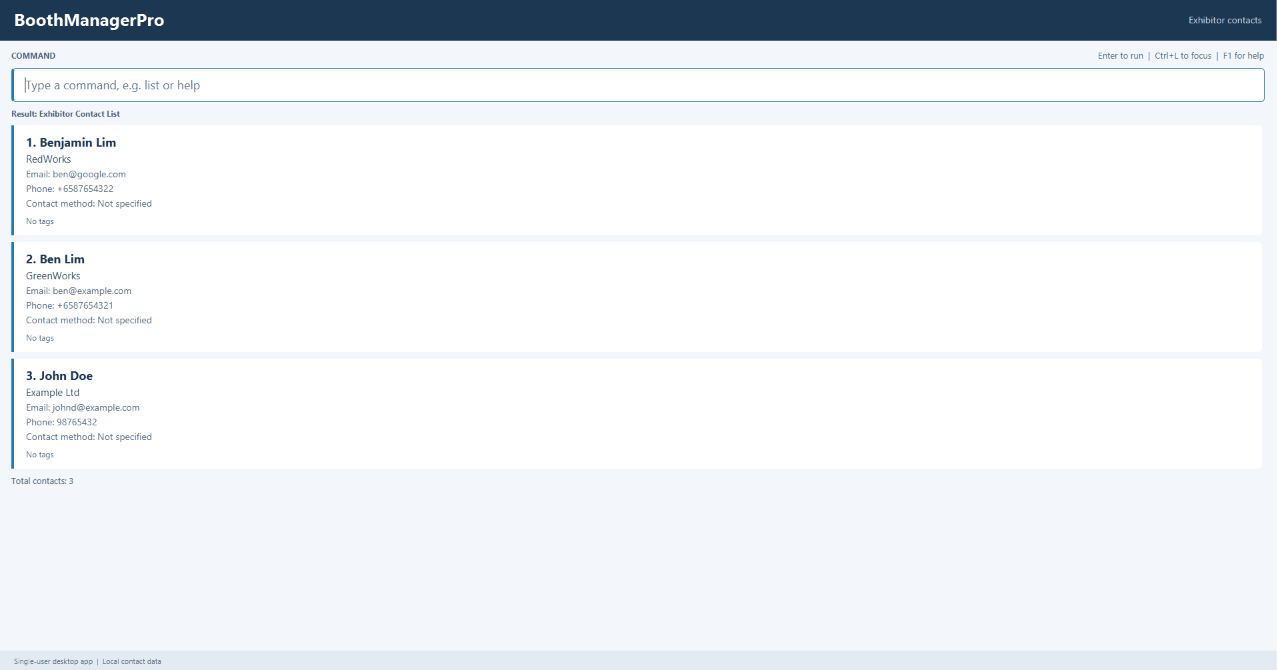
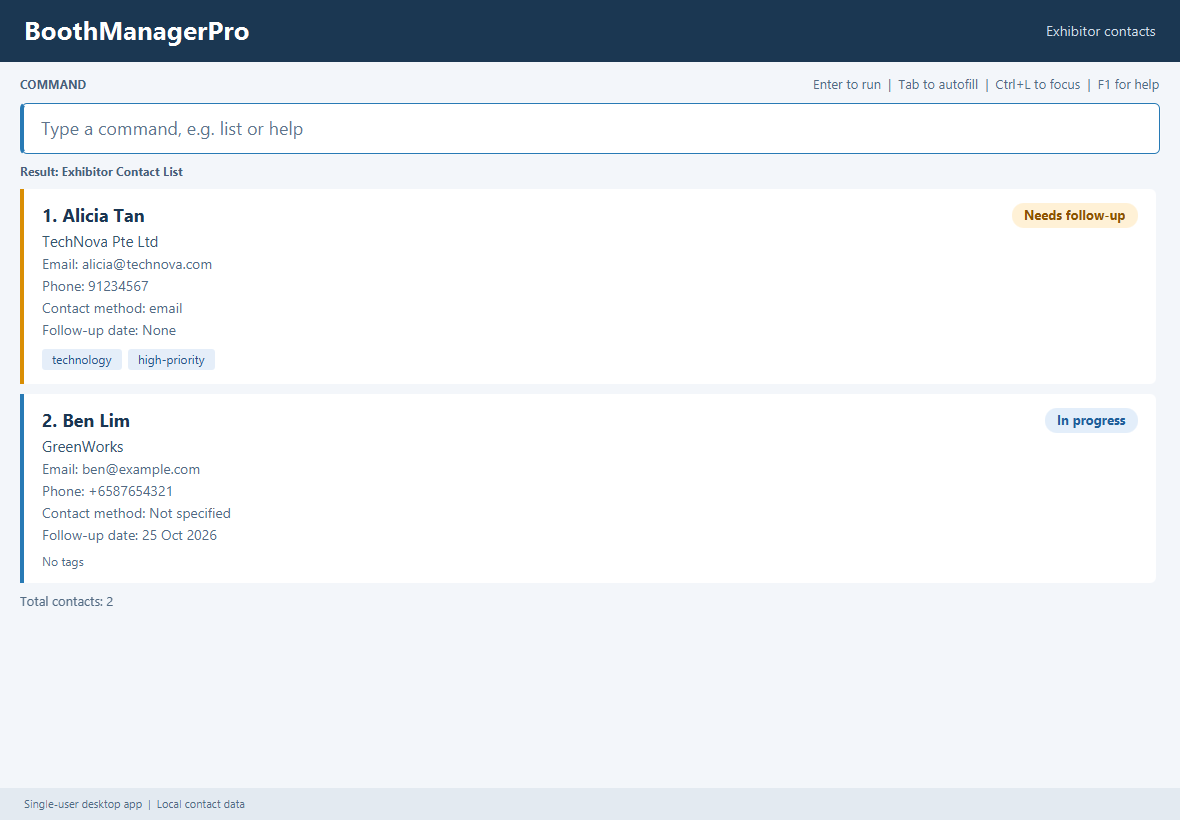
Update documentation, landing page, and project metadata

diff --git a/src/main/java/seedu/boothmanagerpro/MainApp.java b/src/main/java/seedu/boothmanagerpro/MainApp.java
@@ -32,7 +32,7 @@ import seedu.boothmanagerpro.ui.UiManager;
  */
 public class MainApp extends Application {
 
-    public static final String VERSION = "V0.5.1";
+    public static final String VERSION = "V1.5";
     public static final String MESSAGE_DATA_LOAD_FAILURE = "Contact data could not be loaded. "
             + "The original file will be backed up before any new data is saved.";
 
@@ -48,7 +48,7 @@ public class MainApp extends Application {
 
     @Override
     public void init() throws Exception {
-        logger.info("=============================[ Initializing AddressBook ]===========================");
+        logger.info("=============================[ Initializing BoothManagerPro ]===========================");
         super.init();
 
         JsonUserPrefsStorage userPrefsStorage = new JsonUserPrefsStorage(USER_PREFS_FILE_PATH);
@@ -78,13 +78,13 @@ public class MainApp extends Application {
             addressBookOptional = storage.readAddressBook();
             if (addressBookOptional.isEmpty()) {
                 logger.info("Creating a new data file " + storage.getAddressBookFilePath()
-                        + " populated with a sample AddressBook.");
+                        + " populated with sample exhibitor contacts.");
             }
             initialData = addressBookOptional.orElseGet(SampleDataUtil::getSampleAddressBook);
         } catch (DataLoadingException e) {
             startupWarning = MESSAGE_DATA_LOAD_FAILURE;
             logger.warning("Data file at " + storage.getAddressBookFilePath() + " could not be loaded."
-                    + " Will be starting with an empty AddressBook.");
+                    + " Will be starting with an empty contact list.");
             initialData = new AddressBook();
         }
 
@@ -126,13 +126,13 @@ public class MainApp extends Application {
 
     @Override
     public void start(Stage primaryStage) {
-        logger.info("Starting AddressBook " + MainApp.VERSION);
+        logger.info("Starting BoothManagerPro " + MainApp.VERSION);
         ui.start(primaryStage);
     }
 
     @Override
     public void stop() {
-        logger.info("============================ [ Stopping AddressBook ] =============================");
+        logger.info("============================ [ Stopping BoothManagerPro ] =============================");
         try {
             storage.saveUserPrefs(model.getUserPrefs());
         } catch (IOException e) {

diff --git a/docs/UserGuide.md b/docs/UserGuide.md
@@ -12,18 +12,28 @@ BoothManagerPro is a desktop contact manager for **convention organisers followi
 
 ## Quick start
 
-1. Ensure that JDK `25` is installed on your computer, as required by the [setup guide](SettingUp.md).
+1. Ensure that Java `25` is installed on your computer. You can check this by running `java -version` in your terminal, as described in the [setup guide](SettingUp.md).
 
 1. Download `boothmanagerpro.jar` from the [latest GitHub release](https://github.com/AY2627S1-CS2103T-W11-2/tp/releases/latest). You do not need to download the source code or build the app.
 
-1. Copy the file to the folder you want to use as the _home folder_ for BoothManagerPro.
+1. Copy the JAR file to an empty folder you want to use as the home directory for BoothManagerPro.
+   <div markdown="span" class="alert alert-warning">:exclamation: **Caution:**
+   Do not place BoothManagerPro in a write-protected directory (e.g. `Program Files` or system root), as the application creates and updates its local data file (`data/addressbook.json`) in the directory it is run from.
+   </div>
 
-1. Open a terminal, `cd` to the folder containing the JAR file, and run `java -jar boothmanagerpro.jar`.<br>
+1. Open a terminal, `cd` into the folder containing the JAR file, and launch the application with:
+   ```text
+   java -jar boothmanagerpro.jar
+   ```
+   <div markdown="span" class="alert alert-primary">:bulb: **Note:**
+   Double-clicking the JAR file may not work on certain operating systems or configurations (such as Linux desktop environments or macOS without console associations). Running the command from a terminal is the recommended method.
+   </div>
+
    Sample contacts are loaded on first launch, but only a ready prompt is shown.
    Type `list` to show the sample contacts, or `help` to see the available commands.<br>
    ![Command interface on startup](images/ug-startup.png)
 
-1. Type a command in the command box and press Enter to execute it. For example, type **`help`** and press Enter to print command usage instructions.<br>
+1. Type a command in the command box and press Enter to execute it. For example, type **`help`** (or press **F1**) and press Enter to print command usage instructions.<br>
    Some example commands you can try:
 
    * `list` : Lists all contacts. Add `o/name`, `o/company`, or `o/status` to sort them, e.g. `list o/status`.
@@ -441,13 +451,19 @@ To recover contacts, close BoothManagerPro first. Keep a separate copy of the re
 Furthermore, certain edits can cause BoothManagerPro to behave in unexpected ways (e.g., if a value entered is outside of the acceptable range). Therefore, edit the data file only if you are confident that you can update it correctly.
 </div>
 
-### Planned features
+### Planned features [Coming soon]
 
-Searching enquiry status, reminders, data archiving, CSV import/export, and undo remain planned. Exact follow-up-date search is available through `find f/YYYYMMDD`.
+Searching enquiry status, reminders, data archiving, CSV import/export, and undo remain planned for future iterations. Exact follow-up-date search is available through `find f/YYYYMMDD`.
 
 --------------------------------------------------------------------------------------------------------------------
 
 ## FAQ
+
+**Q**: Why does double-clicking `boothmanagerpro.jar` not open the application?<br>
+**A**: Certain operating systems (or configurations without Java desktop associations) do not execute JAR files on double-click. Open a terminal, navigate to the folder containing the JAR, and run `java -jar boothmanagerpro.jar`.
+
+**Q**: Where does BoothManagerPro store contact data?<br>
+**A**: BoothManagerPro stores contacts in `data/addressbook.json` in the folder from which you run the application. Ensure that folder is not write-protected.
 
 **Q**: How do I transfer my data to another computer?<br>
 **A**: Close BoothManagerPro on both computers. Copy `data/addressbook.json` from the old launch folder into the new launch folder's `data` directory, backing up any existing file first. Start the app from the new folder and run `list` to check your contacts.

diff --git a/docs/index.md b/docs/index.md
@@ -3,14 +3,14 @@ layout: page
 title: BoothManagerPro
 ---
 
-[![CI Status](https://github.com/AY2627S1-CS2103T-W11-2/tp/actions/workflows/gradle.yml/badge.svg)](https://github.com/AY2627S1-CS2103T-W11-2/tp/actions/workflows/gradle.yml)
+[![CI Status](https://github.com/AY2627S1-CS2103T-W11-2/tp/actions/workflows/gradle.yml/badge.svg?branch=master)](https://github.com/AY2627S1-CS2103T-W11-2/tp/actions/workflows/gradle.yml)
 [![codecov](https://codecov.io/github/AY2627S1-CS2103T-W11-2/tp/graph/badge.svg?token=EXE9YQFB7G)](https://codecov.io/github/AY2627S1-CS2103T-W11-2/tp)
 
-![Current startup screen](images/Ui%20-%20start%20state.png)
+![BoothManagerPro contact list view](images/Ui.png)
 
-**BoothManagerPro helps convention organisers manage exhibitor contacts through typed commands.** Add contacts with company, email, phone, optional contact method, and tags, with validation and duplicate detection. See the [add command reference](UserGuide.html#adding-an-exhibitor-contact-add).
+**BoothManagerPro helps convention organisers manage exhibitor contacts efficiently through typed commands.** Add contacts with company, email, phone, optional contact method, enquiry status, follow-up dates, and tags, with built-in validation and duplicate detection. See the [add command reference](UserGuide.html#adding-an-exhibitor-contact-add).
 
-The image above shows the current startup screen. `list`, `find`, and `view` print their results in a single text output area. Contacts are not printed automatically on startup, and there are no graphical contact panels. Add supports enquiry status and optional follow-up dates; `update` changes these fields and `tag` toggles tags by name or displayed index. Exact follow-up-date filtering is available through `find f/YYYYMMDD`. Enquiry-status filtering and automatic due or overdue filtering remain planned.
+The screenshot above shows BoothManagerPro displaying exhibitor contacts as static contact cards with coloured enquiry status badges. Startup displays a ready prompt, keeping your workflow clean and focused until you enter a command. Use `list` to view and sort contacts (`list o/name`, `list o/company`, `list o/status`), `find` to filter by fields and exact follow-up dates (`find f/YYYYMMDD`), `view` for full details, and `update` or `tag` to keep records accurate. Future enhancements such as enquiry-status filtering and automatic overdue reminders are planned for subsequent iterations.
 
 * If you are interested in using BoothManagerPro, head over to the [_Quick Start_ section of the **User Guide**](UserGuide.html#quick-start).
 * If you are interested in developing BoothManagerPro, the [**Developer Guide**](DeveloperGuide.html) is a good place to start.

diff --git a/README.md b/README.md
@@ -1,6 +1,6 @@
 # BoothManagerPro
 
-[![CI Status](https://github.com/AY2627S1-CS2103T-W11-2/tp/actions/workflows/gradle.yml/badge.svg)](https://github.com/AY2627S1-CS2103T-W11-2/tp/actions/workflows/gradle.yml)
+[![CI Status](https://github.com/AY2627S1-CS2103T-W11-2/tp/actions/workflows/gradle.yml/badge.svg?branch=master)](https://github.com/AY2627S1-CS2103T-W11-2/tp/actions/workflows/gradle.yml)
 [![codecov](https://codecov.io/github/AY2627S1-CS2103T-W11-2/tp/graph/badge.svg?token=EXE9YQFB7G)](https://codecov.io/github/AY2627S1-CS2103T-W11-2/tp)
 
 **Manage exhibitor contacts efficiently through typed commands.**
@@ -20,18 +20,18 @@ right person and maintain organised contact records.
 ## About the project
 
 BoothManagerPro focuses on managing exhibitors and their representatives
-throughout the enquiry process. Its initial development includes adding,
-listing, viewing, and deleting contact records.
+throughout the enquiry process, supporting adding, listing, sorting, viewing,
+updating, tagging, filtering, and deleting contact records.
 
-Contacts support an enquiry status and an optional follow-up date at creation.
-Use `update NAME_OR_INDEX s/STATUS f/YYYYMMDD` to change these fields.
-Use `find f/YYYYMMDD` to find contacts on an exact follow-up date; date ranges and overdue reminders remain planned.
+Contacts record an enquiry status, preferred contact method, and an optional follow-up date.
+Use `update NAME_OR_INDEX s/STATUS f/YYYYMMDD` to modify these fields, and `tag` to toggle tags.
+Use `find f/YYYYMMDD` to find contacts on an exact follow-up date; date ranges and overdue reminders remain planned for future iterations.
 
 ## UI preview
 
-![Application on startup](docs/images/Ui%20-%20start%20state.png)
+![BoothManagerPro contact list view](docs/images/Ui.png)
 
-*Current startup screen. The window contains command input and text output only. `list` prints all contacts, `find` prints numbered matches, and `view` prints details or numbered choices. Contacts are not printed automatically on launch.*
+*BoothManagerPro displaying contacts as static contact cards with coloured enquiry status badges. Startup displays a ready prompt, and `list`, `find`, and `view` render contacts directly in the single scrollable output area.*
 
 ## Who it is for
 

diff --git a/docs/AboutUs.md b/docs/AboutUs.md
@@ -5,8 +5,6 @@ title: About Us
 
 We are a team based in the [School of Computing, National University of Singapore](https://www.comp.nus.edu.sg).
 
-You can reach us at the email `seer[at]comp.nus.edu.sg`
-
 ## Project team
 
 ### Jenna Ng
@@ -14,19 +12,30 @@ You can reach us at the email `seer[at]comp.nus.edu.sg`
 <img src="images/jennangke.png" width="200px">
 
 [[github](https://github.com/jennangke)]
+[[portfolio](team/jennangke.md)]
+
+* Role: Developer
+* Responsibilities: Logic & parser error handling
 
 ### Rhineson Kok
 
 <img src="images/rhinesonn.png" width="200px">
 
-[[github](https://github.com/rhinesonn)] 
+[[github](https://github.com/rhinesonn)]
+[[portfolio](team/rhinesonn.md)]
+
+* Role: Team Lead & Developer
+* Responsibilities: Architecture, UI integration & Developer Guide
 
 ### Cedric Cheng
 
 <img src="images/seadrickbug.png" width="200px">
 
-[[github](http://github.com/seadrickbug)] 
-[[portfolio](team/johndoe.md)]
+[[github](https://github.com/seadrickbug)]
+[[portfolio](team/seadrickbug.md)]
+
+* Role: Developer
+* Responsibilities: UI & help system
 
 ### Gerard Lum
 
@@ -34,16 +43,17 @@ You can reach us at the email `seer[at]comp.nus.edu.sg`
 
 [[homepage](https://www.linkedin.com/in/gerardlumkaien/)]
 [[github](https://github.com/gerardlke)]
-[[portfolio](team/johndoe.md)]
+[[portfolio](team/gerardlke.md)]
 
 * Role: Developer
-* Responsibilities: Backend
+* Responsibilities: Model & data management
 
 ### Li Wenze
 
 <img src="images/legned-wenze.png" width="200px">
 
 [[github](https://github.com/legned-wenze)]
+[[portfolio](team/legned-wenze.md)]
 
 * Role: Developer
-* Responsibilities: UI mockup and non-functional requirements
+* Responsibilities: Storage recovery & state management

diff --git a/docs/team/rhinesonn.md b/docs/team/rhinesonn.md
@@ -1,0 +1,25 @@
+---
+layout: page
+title: Rhineson Kok's Project Portfolio Page
+---
+
+### Project: BoothManagerPro
+
+BoothManagerPro is a desktop contact manager designed for convention organisers managing exhibitor representatives through typed commands, featuring a command-driven UI with static contact cards, robust validation, and multi-field filtering.
+
+Given below are my contributions to the project.
+
+* **Code contributed**: [RepoSense link](https://nus-cs2103-ay2627-s1.github.io/tp-dashboard/?search=rhinesonn&sort=groupTitle&sortWithin=title&timeframe=commit&mergegroup=&groupSelect=groupByRepos&breakdown=true&checkedFileTypes=docs~functional-code~test-code~other)
+
+* **Enhancements implemented**:
+  * Implemented command-driven contact display and static `ContactCard` rendering in `ResultDisplay`.
+  * Implemented multi-turn interactive selection for the `view` command and logic rollback helpers.
+  * Authored RepoSense configuration for team code attribution.
+
+* **Contributions to the User Guide**:
+  * Documented keyboard controls, contact card display, and view workflows.
+
+* **Contributions to the Developer Guide**:
+  * Overhauled and structured architecture, UI, and logic component documentation.
+  * Authored sequence and class diagrams for commands and architecture.
+  * Added Appendix: Planned Enhancements and Appendix: Effort.

diff --git a/docs/team/legned-wenze.md b/docs/team/legned-wenze.md
@@ -1,0 +1,23 @@
+---
+layout: page
+title: Li Wenze's Project Portfolio Page
+---
+
+### Project: BoothManagerPro
+
+BoothManagerPro is a desktop contact manager designed for convention organisers managing exhibitor representatives through typed commands, featuring a command-driven UI with static contact cards, robust validation, and multi-field filtering.
+
+Given below are my contributions to the project.
+
+* **Code contributed**: [RepoSense link](https://nus-cs2103-ay2627-s1.github.io/tp-dashboard/?search=legned-wenze&sort=groupTitle&sortWithin=title&timeframe=commit&mergegroup=&groupSelect=groupByRepos&breakdown=true&checkedFileTypes=docs~functional-code~test-code~other)
+
+* **Enhancements implemented**:
+  * Implemented `DataFileRecovery` for automatic corrupted data backup and restoration protection.
+  * Implemented display ordering restoration upon command execution and save failures in `LogicManager`.
+  * Added boundary tests for parser utility and update feedback.
+
+* **Contributions to the User Guide**:
+  * Documented data file recovery and editing caveats.
+
+* **Contributions to the Developer Guide**:
+  * Documented Storage component recovery mechanisms and display ordering rollback.

diff --git a/docs/team/gerardlke.md b/docs/team/gerardlke.md
@@ -1,0 +1,22 @@
+---
+layout: page
+title: Gerard Lum's Project Portfolio Page
+---
+
+### Project: BoothManagerPro
+
+BoothManagerPro is a desktop contact manager designed for convention organisers managing exhibitor representatives through typed commands, featuring a command-driven UI with static contact cards, robust validation, and multi-field filtering.
+
+Given below are my contributions to the project.
+
+* **Code contributed**: [RepoSense link](https://nus-cs2103-ay2627-s1.github.io/tp-dashboard/?search=gerardlke&sort=groupTitle&sortWithin=title&timeframe=commit&mergegroup=&groupSelect=groupByRepos&breakdown=true&checkedFileTypes=docs~functional-code~test-code~other)
+
+* **Enhancements implemented**:
+  * Implemented and refined model components for exhibitors (`Company`, `ContactMethod`, `EnquiryStatus`, `FollowUpDate`).
+  * Implemented `update` and `tag` command execution, validation, and test suites.
+
+* **Contributions to the User Guide**:
+  * Documented `update` and `tag` command specifications, parameter rules, and feedback.
+
+* **Contributions to the Developer Guide**:
+  * Documented Model component design, user stories, and update command sequence workflows.

diff --git a/docs/team/seadrickbug.md b/docs/team/seadrickbug.md
@@ -1,0 +1,22 @@
+---
+layout: page
+title: Cedric Cheng's Project Portfolio Page
+---
+
+### Project: BoothManagerPro
+
+BoothManagerPro is a desktop contact manager designed for convention organisers managing exhibitor representatives through typed commands, featuring a command-driven UI with static contact cards, robust validation, and multi-field filtering.
+
+Given below are my contributions to the project.
+
+* **Code contributed**: [RepoSense link](https://nus-cs2103-ay2627-s1.github.io/tp-dashboard/?search=seadrickbug&sort=groupTitle&sortWithin=title&timeframe=commit&mergegroup=&groupSelect=groupByRepos&breakdown=true&checkedFileTypes=docs~functional-code~test-code~other)
+
+* **Enhancements implemented**:
+  * Implemented and updated the `help` command with quick controls, keyboard shortcuts, and full format examples.
+  * Added unit and integration tests for help output and keyboard controls.
+
+* **Contributions to the User Guide**:
+  * Updated help and quick controls documentation.
+
+* **Contributions to the Developer Guide**:
+  * Documented help system and manual testing instructions.

diff --git a/docs/team/jennangke.md b/docs/team/jennangke.md
@@ -1,0 +1,22 @@
+---
+layout: page
+title: Jenna Ng's Project Portfolio Page
+---
+
+### Project: BoothManagerPro
+
+BoothManagerPro is a desktop contact manager designed for convention organisers managing exhibitor representatives through typed commands, featuring a command-driven UI with static contact cards, robust validation, and multi-field filtering.
+
+Given below are my contributions to the project.
+
+* **Code contributed**: [RepoSense link](https://nus-cs2103-ay2627-s1.github.io/tp-dashboard/?search=jennangke&sort=groupTitle&sortWithin=title&timeframe=commit&mergegroup=&groupSelect=groupByRepos&breakdown=true&checkedFileTypes=docs~functional-code~test-code~other)
+
+* **Enhancements implemented**:
+  * Improved parser error messages and parameter boundary handling across commands.
+  * Added parser unit tests and input validation checks.
+
+* **Contributions to the User Guide**:
+  * Documented command formats and error feedback.
+
+* **Contributions to the Developer Guide**:
+  * Documented parser error boundaries and test scenarios for parser error messages.
